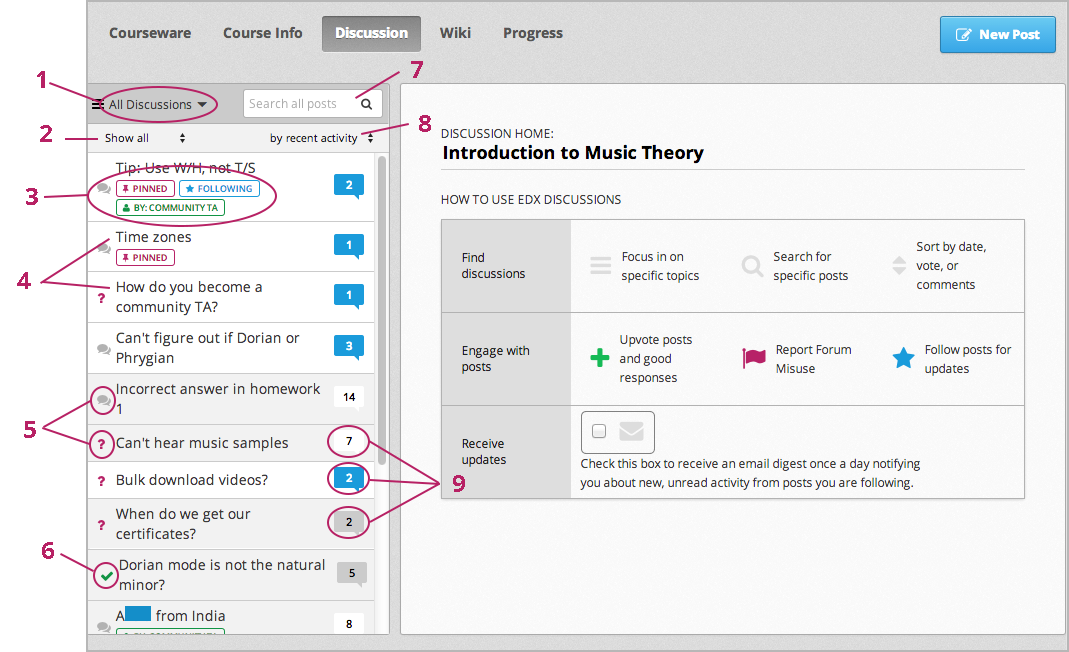
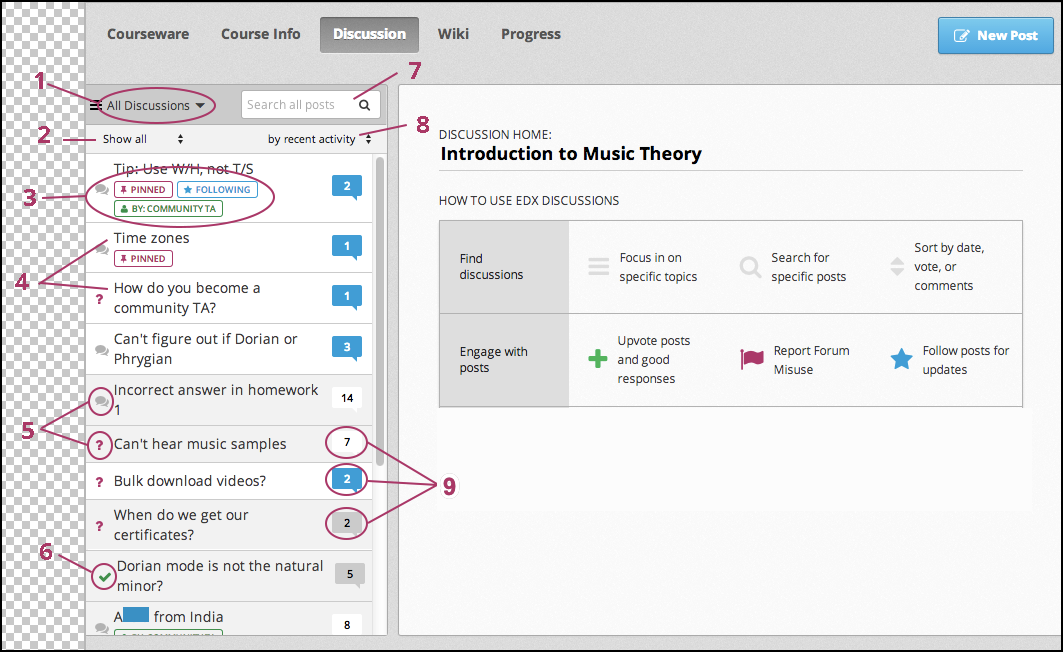
Notifier Deprecation doc updates
removed mention of notifier (i.e. daily digest, weekly email updates) and updated images associated Notifier which display the "send updates" button which is now removed.

diff --git a/en_us/shared/students/sfd_discussions/keep_up.rst b/en_us/shared/students/sfd_discussions/keep_up.rst
@@ -65,8 +65,7 @@ Receiving Notifications
 *****************************
 
 When you add a post to a discussion, you might receive an email notification
-about the first reply to the post. You can also receive a digest email message
-each day that summarizes activity for the posts that you are following.
+about the first reply to the post. 
 
 ==============================
 Receiving Email Notifications
@@ -87,45 +86,4 @@ Receiving Email Notifications
   By default, the first time another learner or member of the course team
   responds to a post that you have made, you receive an email notification.
 
-If you do not want to receive this email notification, clear the **Receive
-updates** checkbox before you add your post.
-
-You only receive an email notification for the first response. For additional
-responses and comments, you automatically receive information in a daily digest
-email message. For more information, see :ref:`Receiving Daily Digests`.
-
-.. _Receiving Daily Digests:
-
-=======================
-Receiving Daily Digests
-=======================
-
-You can subscribe to a daily digest to receive an email message each day that
-summarizes discussion activity for the posts you are following. To subscribe to
-the daily digest, follow these steps.
-
-#. In your course, select **Discussion**.
-#. In the **How to use edX discussions** graphic, select the **Receive
-   updates** checkbox.
-
-.. image:: ../../../shared/images/Discussion_ReceiveUpdates.png
-  :width: 600
-  :alt: "How to use edX discussions" graphic with the Receive Updates checkbox
-      circled.
-
-================================
-Unsubscribing from Notifications
-================================
-
-If you want to unsubscribe from notifications, complete either of the following
-actions.
-
-* If you received an email message, select **Unsubscribe** in the message.
-* On the **Discussion** page in your course, clear the **Receive updates**
-  checkbox in the **How to use edX discussions** graphic.
-
-.. note::
-    These actions unsubscribe you from daily digest email messages. If you
-    create a new post, you will still receive an email message the first time
-    that a learner responds to that post. To prevent an email notification for
-    a post, clear the **Receive updates** checkbox before you add the post.
+You only receive an email notification for the first response.

diff --git a/en_us/course_authors/source/manage_live_course/automatic_email.rst b/en_us/course_authors/source/manage_live_course/automatic_email.rst
@@ -46,11 +46,7 @@ of automatic email messages.
      next course "week", or section. Is not sent if the course team has not
      added highlights for the section in Studio. For more information, see
      :ref:`Set Section Highlights for Weekly Course Highlight Messages`.
- * - :ref:`Discussion Notification`
-   - Instructor-paced and self-paced
-   - Unspecified
-   - Notifications that a user has responded to a post on a :ref:`course
-     discussion<Managing Discussions Index>`.
+
 
 *****************************
 Automatic Email Message Text
@@ -168,19 +164,14 @@ Course Highlight Messages`.
 
 .. include:: ../../../shared/developing_course/course_highlight_message_text.rst
 
+
 .. _Discussion Notification:
 
 ================================
 Discussion Notification
 ================================
 
-.. Note: Any update to the **discussion notification** information should also
-.. be made to the manage_live_course/automatic_email.rst file in the Open edX
-.. course authors guide.
-
-After a learner or course team member creates a post in the course discussions,
-edX sends the following email message the first time a learner or course team
-member replies to the original post.
+After a learner or course team member creates a post in the course discussions, edX sends the following email message the first time a learner or course team member replies to the original post.
 
 ::
 
@@ -188,13 +179,6 @@ member replies to the original post.
 
   <edX username> replied to <title of post>:
 
-    <text of comment>
+  <text of comment>
 
-The message also contains a **View discussion** option that takes the learner
-to the discussion post.
-
-EdX does not send individual messages for any additional replies on the post.
-However, the learner automatically receives a daily digest email message that
-summarizes additional activity on the post. For more information, see
-:ref:`learners:Receiving Discussion Notifications` and
-:ref:`learners:Receiving Daily Digests`.
+The message also contains a View discussion option that takes the learner to the discussion post. EdX does not send individual messages for any additional replies on the post. 

diff --git a/en_us/shared/students/sfd_discussions/anatomy.rst b/en_us/shared/students/sfd_discussions/anatomy.rst
@@ -120,18 +120,14 @@ How to Use Discussions
 The **How to use edX discussions** graphic appears in the main area of the
 **Discussion** page when you have not selected any topics or posts.
 
-This graphic shows the basic actions you can take with course discussions. You
-can select the **Receive updates** option in the graphic to receive a daily
-email digest of new activity from course discussions.
+This graphic shows the basic actions you can take with course discussions. 
 
 .. image:: ../../../shared/images/Discussion_HowToUse.png
    :width: 600
    :alt: The "How to use edX discussions" graphic on the Discussion page lists
        the basic actions you can take with course discussions, including
        filtering and sorting topics, voting on or following posts, and
-       reporting abuse. You can select the "Receive updates" option in the
-       graphic to receive a daily email digest of new activity from course
-       discussions.
+       reporting abuse. 
 
 When you browse topics and posts from the :ref:`Discussion Navigation Pane
 <discussion navigation pane>`, the **How to use edX discussions** graphic is
